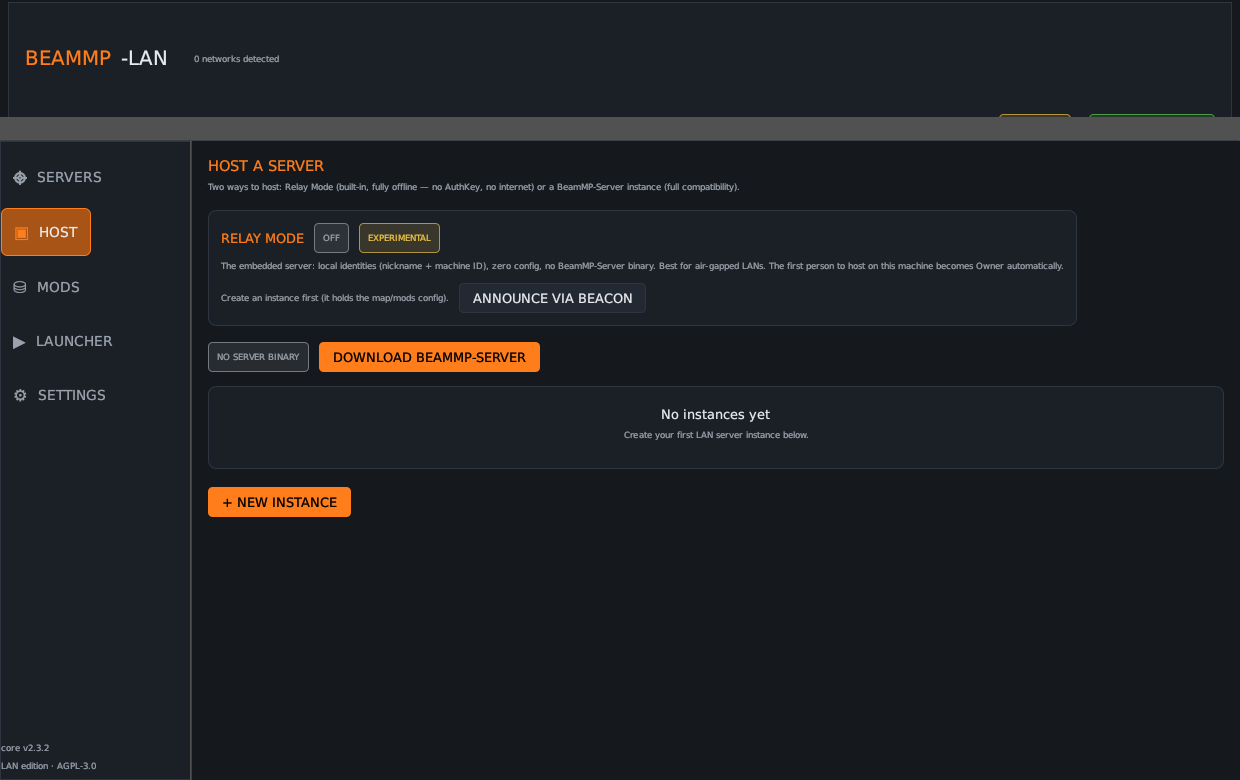
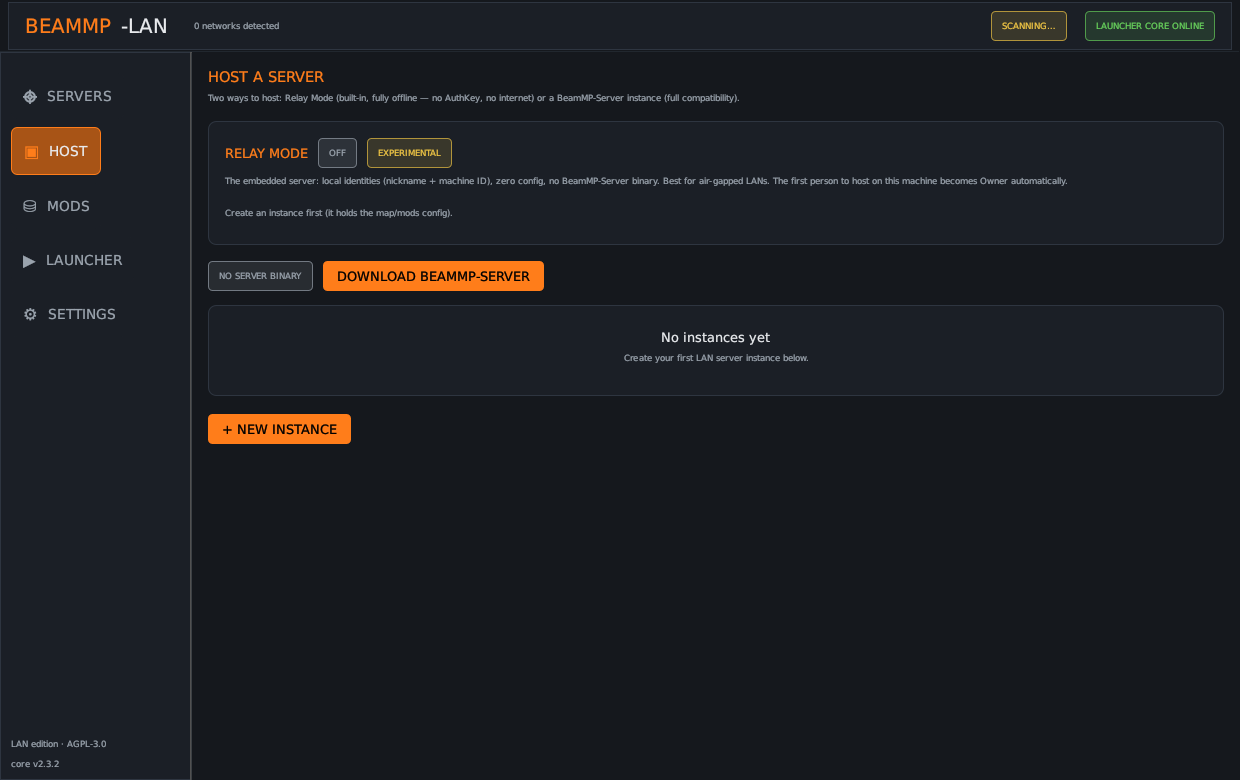
Fix UI layout bugs: squashed pills, clipped footer, page overflow, ragged cards
Root cause of the squashed status pills (verified with a minimal egui
geometry repro): the topbar used two stacked with_layout regions; each
consumes ALL remaining panel HEIGHT, so the second (right_to_left pill)
region collapsed to slivers and the panel size oscillated frame to
frame — pills rendered as 2-3px clipped strips.

- topbar: single horizontal row with the right_to_left region nested
  last (takes remaining width, not height); pills now ~30px tall
- sidebar: footer moved out of the inner vertical into the panel-level
  bottom_up region; panel frame gets inner margins — footer now 14px
  from the bottom, 12px from the left (was 4px/2px)
- central panel: pages wrapped in a vertical ScrollArea — Settings and
  Launcher no longer clip their bottom cards (v0.2.0 made pages taller)
- card(): stretch to full available width (set_min_width) so all cards
  align; inner margin 12→16px so text no longer hugs card borders
- pill(): inner margin 8,2 → 10,3 (ellipsis no longer touches border)
- Host relay row: ANNOUNCE VIA BEACON right-aligned instead of crammed
  next to the hint text; machine-ID label gets 12px gap + colon
- Settings: 16px trailing space below SAVE so scrolled content ends
  with margin

Verified: pixel-geometry scans (pill extent y11-40, footer gaps) +
VLM audit of all five pages — every check PASS. 30/30 tests, clippy
--all-targets clean, fmt clean.

diff --git a/src/app.rs b/src/app.rs
@@ -196,7 +196,13 @@ impl eframe::App for BeamMpLanApp {
             .frame(
                 egui::Frame::new()
                     .fill(PANEL)
-                    .stroke(egui::Stroke::new(1.0f32, BORDER)),
+                    .stroke(egui::Stroke::new(1.0f32, BORDER))
+                    .inner_margin(egui::Margin {
+                        left: 10,
+                        right: 8,
+                        top: 8,
+                        bottom: 10,
+                    }),
             )
             .exact_width(190.0)
             .show(ctx, |ui| {
@@ -209,12 +215,18 @@ impl eframe::App for BeamMpLanApp {
                     .fill(BG)
                     .inner_margin(egui::Margin::same(16)),
             )
-            .show(ctx, |ui| match self.state.page {
-                Page::Servers => self.page_servers(ui),
-                Page::Host => self.page_host(ui),
-                Page::Mods => self.page_mods(ui),
-                Page::Launcher => self.page_launcher(ui),
-                Page::Settings => self.page_settings(ui),
+            .show(ctx, |ui| {
+                // Pages can be taller than the window (Settings grew in v0.2.0) —
+                // vertical scrolling instead of clipping the bottom cards.
+                egui::ScrollArea::vertical()
+                    .auto_shrink([false, false])
+                    .show(ui, |ui| match self.state.page {
+                        Page::Servers => self.page_servers(ui),
+                        Page::Host => self.page_host(ui),
+                        Page::Mods => self.page_mods(ui),
+                        Page::Launcher => self.page_launcher(ui),
+                        Page::Settings => self.page_settings(ui),
+                    });
             });
 
         self.toasts(ctx);
@@ -241,7 +253,12 @@ impl BeamMpLanApp {
             .stroke(egui::Stroke::new(1.0f32, BORDER))
             .inner_margin(egui::Margin::symmetric(16, 8))
             .show(ui, |ui| {
-                ui.with_layout(Layout::left_to_right(Align::Center), |ui| {
+                // Single row: title (left) + status pills (right). The right-aligned
+                // region is nested LAST inside the horizontal row so it takes the
+                // remaining WIDTH — two stacked `with_layout` regions would each
+                // consume all remaining HEIGHT, squashing the pills to slivers and
+                // blowing up the panel (verified via egui geometry repro).
+                ui.horizontal(|ui| {
                     ui.label(RichText::new("BEAMMP").color(ACCENT).strong().size(20.0));
                     ui.label(RichText::new("-LAN").color(TEXT).strong().size(20.0));
                     ui.add_space(16.0);
@@ -254,36 +271,36 @@ impl BeamMpLanApp {
                         .color(TEXT_DIM)
                         .small(),
                     );
-                });
-                ui.with_layout(Layout::right_to_left(Align::Center), |ui| {
-                    if self.state.core_running {
-                        pill(ui, "LAUNCHER CORE ONLINE", GREEN);
-                    } else {
-                        pill(ui, "LAUNCHER CORE OFFLINE", RED);
-                    }
-                    ui.add_space(8.0);
-                    if self.state.relay.is_some() {
-                        pill(ui, "RELAY MODE ON", ACCENT);
+                    ui.with_layout(Layout::right_to_left(Align::Center), |ui| {
+                        if self.state.core_running {
+                            pill(ui, "LAUNCHER CORE ONLINE", GREEN);
+                        } else {
+                            pill(ui, "LAUNCHER CORE OFFLINE", RED);
+                        }
                         ui.add_space(8.0);
-                    }
-                    if self.state.scanning || self.state.beacon_scanning {
-                        pill(ui, "SCANNING…", WARN);
-                    } else {
-                        let n = self.state.all_servers().len();
-                        pill(
-                            ui,
-                            &format!(
-                                "{n} SERVER{} FOUND{}",
-                                if n == 1 { "" } else { "S" },
-                                if self.state.beacons.is_empty() {
-                                    String::new()
-                                } else {
-                                    format!(" · {} VIA BEACON", self.state.beacons.len())
-                                }
-                            ),
-                            SELECTION,
-                        );
-                    }
+                        if self.state.relay.is_some() {
+                            pill(ui, "RELAY MODE ON", ACCENT);
+                            ui.add_space(8.0);
+                        }
+                        if self.state.scanning || self.state.beacon_scanning {
+                            pill(ui, "SCANNING…", WARN);
+                        } else {
+                            let n = self.state.all_servers().len();
+                            pill(
+                                ui,
+                                &format!(
+                                    "{n} SERVER{} FOUND{}",
+                                    if n == 1 { "" } else { "S" },
+                                    if self.state.beacons.is_empty() {
+                                        String::new()
+                                    } else {
+                                        format!(" · {} VIA BEACON", self.state.beacons.len())
+                                    }
+                                ),
+                                SELECTION,
+                            );
+                        }
+                    });
                 });
             });
     }
@@ -332,20 +349,21 @@ impl BeamMpLanApp {
                     self.state.page = page;
                 }
             }
+        });
 
-            ui.with_layout(Layout::bottom_up(Align::LEFT), |ui| {
-                ui.add_space(8.0);
-                ui.label(
-                    RichText::new("LAN edition · AGPL-3.0")
-                        .color(TEXT_DIM)
-                        .small(),
-                );
-                ui.label(
-                    RichText::new(format!("core v{}", crate::launcher_core::CORE_VERSION))
-                        .color(TEXT_DIM)
-                        .small(),
-                );
-            });
+        ui.with_layout(Layout::bottom_up(Align::LEFT), |ui| {
+            ui.label(
+                RichText::new(format!("core v{}", crate::launcher_core::CORE_VERSION))
+                    .color(TEXT_DIM)
+                    .small(),
+            );
+            ui.add_space(2.0);
+            ui.label(
+                RichText::new("LAN edition · AGPL-3.0")
+                    .color(TEXT_DIM)
+                    .small(),
+            );
+            ui.add_space(6.0); // panel frame inner_margin adds the final bottom padding
         });
     }
 
@@ -771,15 +789,17 @@ impl BeamMpLanApp {
                     } else if action_button(ui, "START RELAY") {
                         self.state.start_relay(idx);
                     }
+                    ui.with_layout(Layout::right_to_left(Align::Center), |ui| {
+                        if ghost_button(ui, "ANNOUNCE VIA BEACON") {
+                            self.state.start_announcer();
+                        }
+                    });
                 } else {
                     ui.label(
                         RichText::new("Create an instance first (it holds the map/mods config).")
                             .color(TEXT_DIM)
                             .small(),
                     );
-                }
-                if ghost_button(ui, "ANNOUNCE VIA BEACON") {
-                    self.state.start_announcer();
                 }
             });
             if !self.state.relay_events.is_empty() {
@@ -1639,9 +1659,10 @@ impl BeamMpLanApp {
                         self.state.toast("Nickname saved".to_string());
                     }
                 }
+                ui.add_space(12.0);
                 ui.label(
                     RichText::new(format!(
-                        "machine ID {}…",
+                        "machine ID: {}…",
                         &self.state.identity.machine_id[..8]
                     ))
                     .color(TEXT_DIM)
@@ -1861,6 +1882,9 @@ impl BeamMpLanApp {
             self.state.push_server_list_to_core();
             self.state.toast("Settings saved".to_string());
         }
+        // Breathing room below the last element so scrolled content doesn't end
+        // flush against the window edge.
+        ui.add_space(16.0);
     }
 
     /// Download CobaltEssentials (community BeamMP server plugin: admin commands,

diff --git a/src/theme.rs b/src/theme.rs
@@ -101,7 +101,7 @@ pub fn pill(ui: &mut egui::Ui, text: &str, color: egui::Color32) -> egui::Respon
         .fill(color.gamma_multiply(0.14))
         .stroke(egui::Stroke::new(1.0f32, color.gamma_multiply(0.7)))
         .corner_radius(4)
-        .inner_margin(egui::Margin::symmetric(8, 2));
+        .inner_margin(egui::Margin::symmetric(10, 3));
     frame.show(ui, |ui| ui.label(rich)).inner
 }
 
@@ -142,12 +142,17 @@ pub fn danger_button(ui: &mut egui::Ui, label: &str) -> bool {
 
 /// BeamNG-style card frame.
 pub fn card(ui: &mut egui::Ui, add_contents: impl FnOnce(&mut egui::Ui)) {
+    // Full-width card: stretch the inner region to the available width so all cards
+    // align (a bare Frame sizes to its content, giving ragged right edges).
     egui::Frame::new()
         .fill(PANEL)
         .stroke(egui::Stroke::new(1.0f32, BORDER))
         .corner_radius(8)
-        .inner_margin(egui::Margin::same(12))
-        .show(ui, add_contents);
+        .inner_margin(egui::Margin::same(16))
+        .show(ui, |ui| {
+            ui.set_min_width(ui.available_width());
+            add_contents(ui);
+        });
 }
 
 /// Pretty-print a BeamMP map path like `/levels/gridmap_v2/info.json` → `Gridmap V2`.
